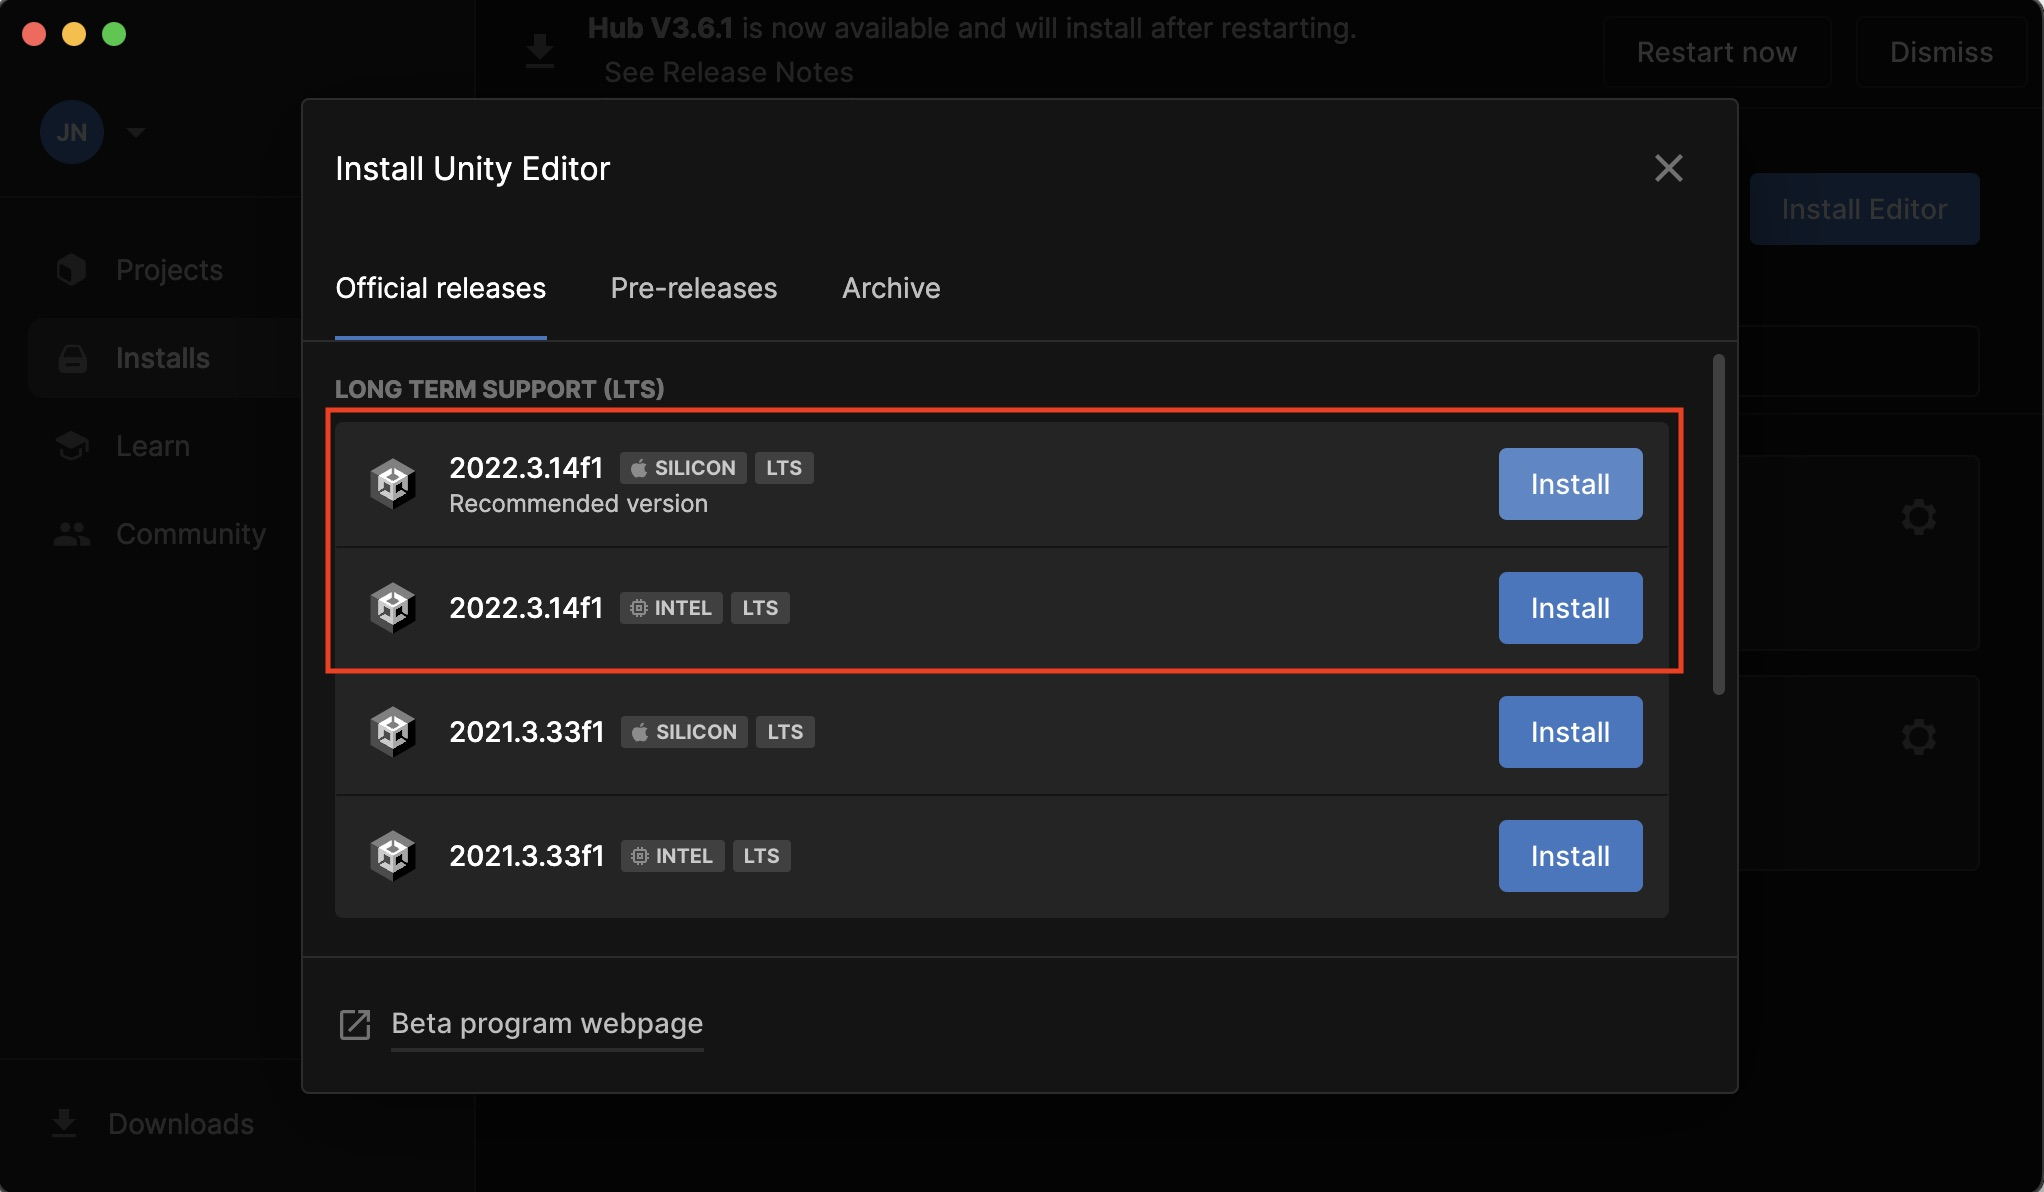
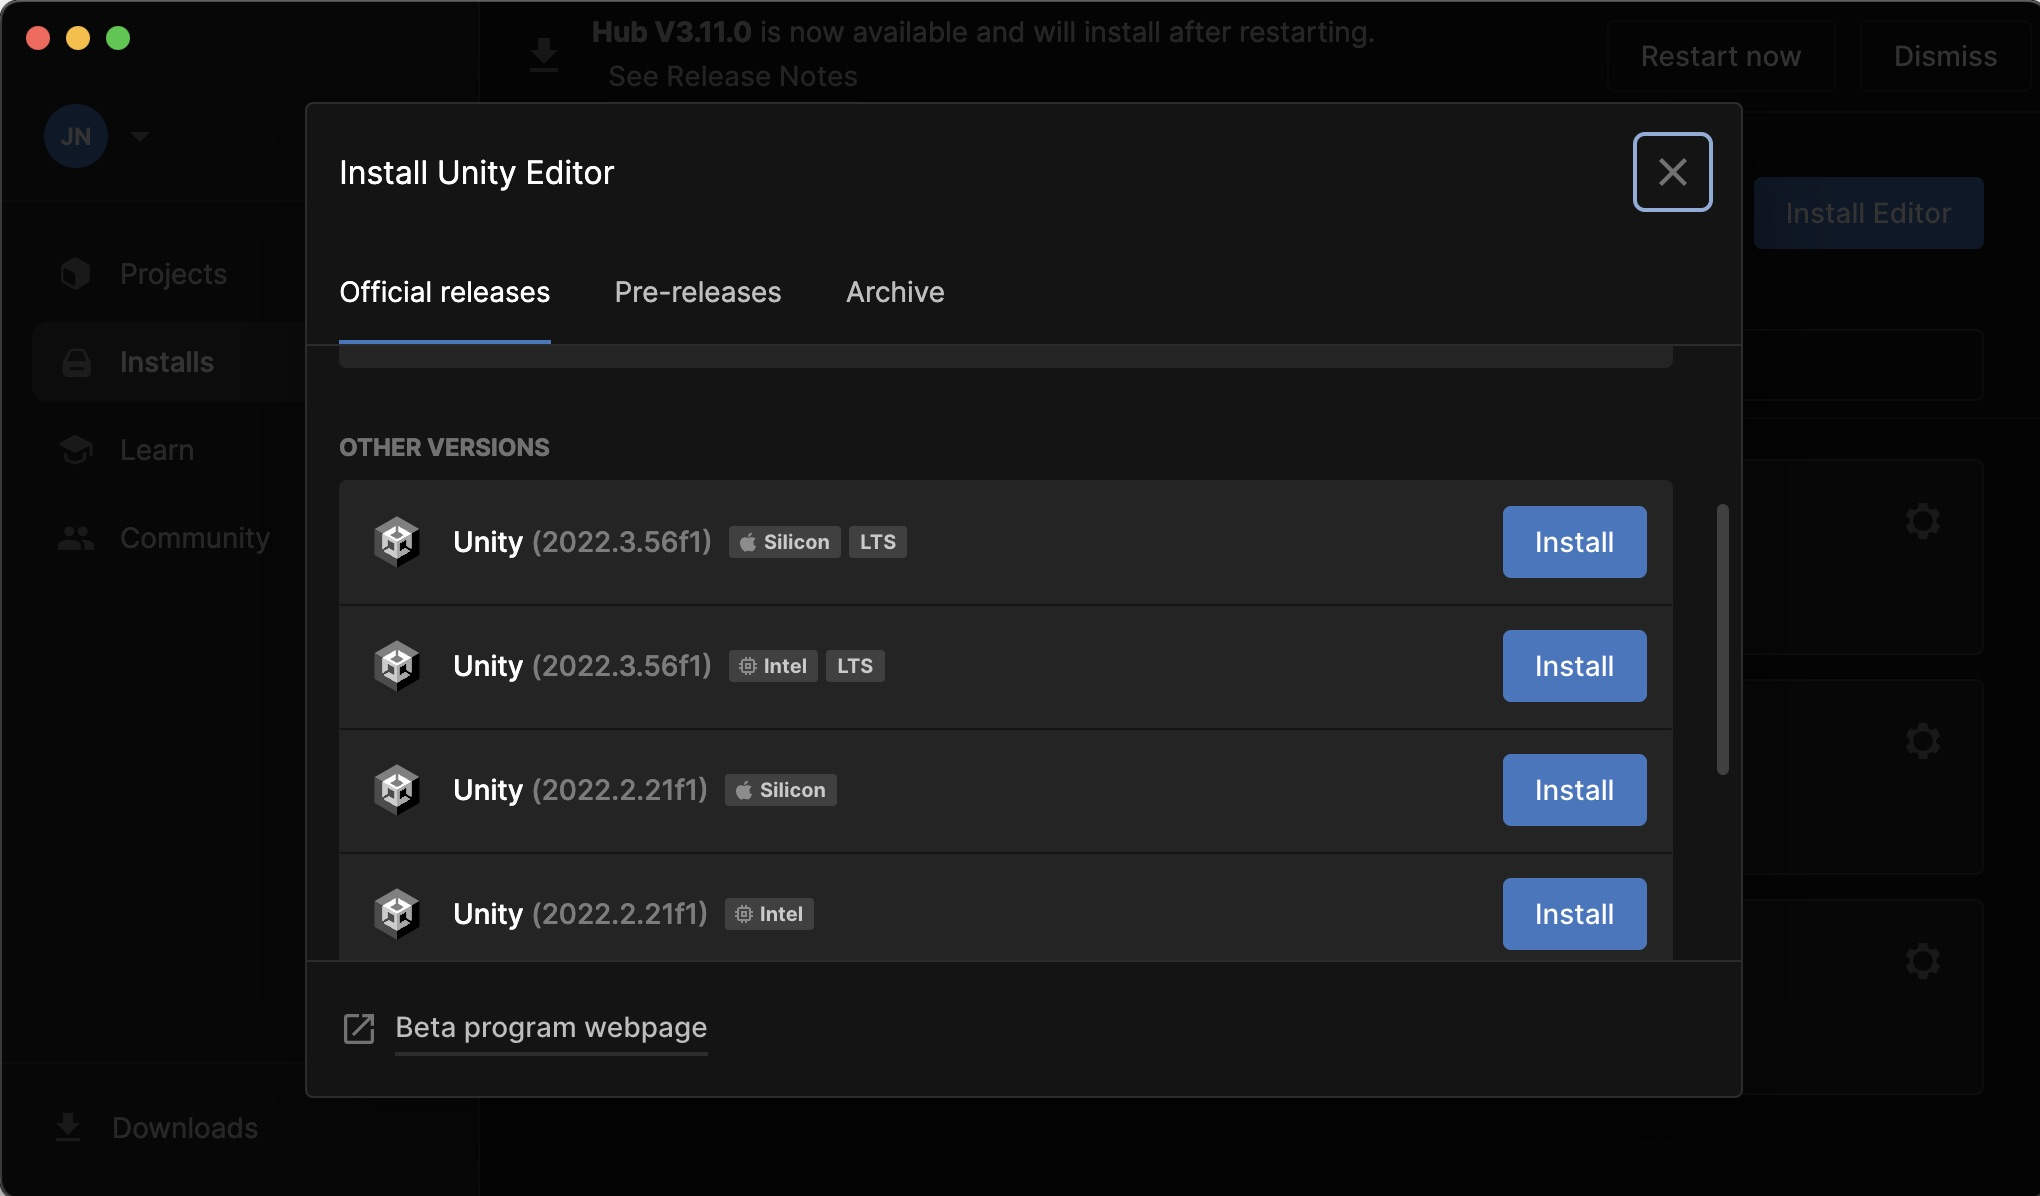
Updated Installation Process

diff --git a/gettingstarted.md b/gettingstarted.md
@@ -3,14 +3,33 @@
 Go to [Download Unity Hub](https://unity.com/de/download) and download the Unity Hub, you will find the Download Link for Mac when you scroll down a bit. 
 
 ## Install Unity Editor 
-After installing the Unity Hub, start it and head over to "Installs" and click on "Install Editor" and choose version 2022.3.14. If you have an Apple Silicon Chip (M1, M2, etc. ) choose the "Silicon" Version, if not the "Intel" version. 
+After installing the Unity Hub, start it and head over to "Installs" and click on "Install Editor" and choose version 2022.3.56. If you have an Apple Silicon Chip (M1, M2, etc. ) choose the "Silicon" Version, if not the "Intel" version. 
 
 ![](images/UnityInstall1.jpeg)
 
 Please also install the following packages: 
-	- Android Build Support 
-	- iOS Build Support 
+	- Visual Studio Code
 ![](images/UnityInstall2.jpeg)
 
- 
 
+## Activate License
+
+Next get the free personal license: 
+
+Go to preferences: 
+![](images/license_2.jpeg)
+
+-> Licenses -> Add 
+![](images/license_3.jpeg)
+
+-> Click on "Get a free personal license"
+![](images/license_4.jpeg)
+
+ 
+# Create your first project
+
+Go to the Unity Hub and click on "New project" and choose 2022.3.56 (different than in the screenshot)
+![](images/newproject1.jpg)
+
+Then select "3D URP", choose a name for your project and click on "Create project"
+![](images/newproject2.jpg)

diff --git a/session1.md b/session1.md
@@ -1,13 +1,5 @@
 # Session 1
 
-# <a name="project">Creating a new project
-
-Go to the Unity Hub and click on "New project"
-![](images/newproject1.jpg)
-
-Then select "3D URP", choose a name for your project and click on "Create project"
-![](images/newproject2.jpg)
-
 
 # <a name="editor">Working with the Unity Editor
 
